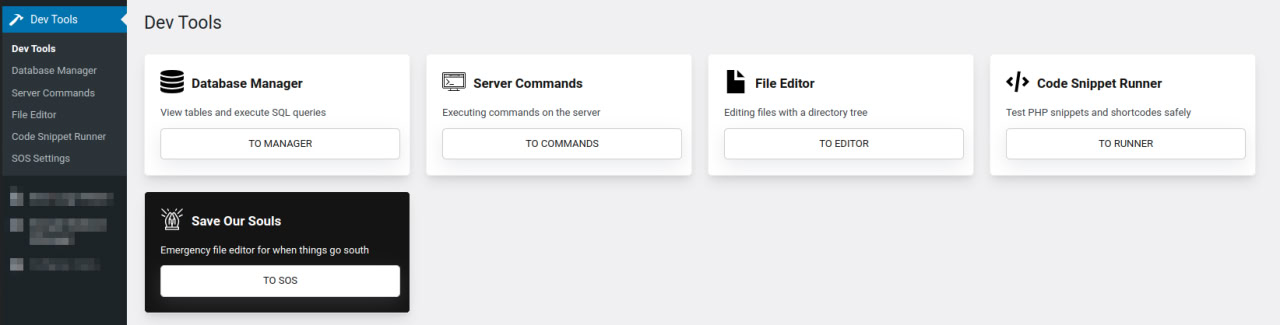
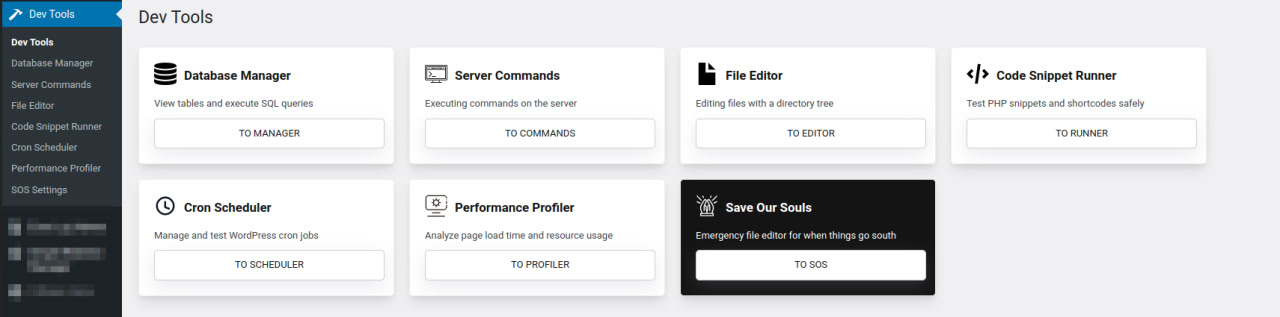
new Cron Scheduler

diff --git a/includes/cron-scheduler/cron-scheduler.php b/includes/cron-scheduler/cron-scheduler.php
@@ -1,0 +1,159 @@
+<?php
+if (!defined('ABSPATH')) {
+    exit;
+}
+
+function dev_tools_cron_page() {
+    if (!current_user_can('manage_options')) {
+        return;
+    }
+
+    $message = '';
+    if ($_SERVER['REQUEST_METHOD'] === 'POST' && isset($_POST['cron_action']) && wp_verify_nonce($_POST['cron_nonce'], 'cron_action')) {
+        $hook = sanitize_text_field($_POST['hook']);
+        if ($_POST['cron_action'] === 'run' && !empty($hook)) {
+            do_action($hook);
+            $message = '<div class="updated"><p>Cron job "' . esc_html($hook) . '" executed successfully!</p></div>';
+        } elseif ($_POST['cron_action'] === 'delete' && !empty($hook)) {
+            $timestamp = (int)$_POST['timestamp'];
+            wp_unschedule_event($timestamp, $hook);
+            $message = '<div class="updated"><p>Cron job "' . esc_html($hook) . '" deleted!</p></div>';
+        } elseif ($_POST['cron_action'] === 'add' && !empty($hook)) {
+            $timestamp = strtotime($_POST['schedule_time']);
+            $recurrence = sanitize_text_field($_POST['recurrence']);
+            if ($timestamp && $recurrence) {
+                wp_schedule_event($timestamp, $recurrence, $hook);
+                $message = '<div class="updated"><p>Cron job "' . esc_html($hook) . '" scheduled!</p></div>';
+            } else {
+                $message = '<div class="error"><p>Invalid time or recurrence!</p></div>';
+            }
+        }
+    }
+
+    $cron_jobs = _get_cron_array();
+    $schedules = wp_get_schedules();
+    ?>
+    <div class="wrap">
+        <h1>Cron Scheduler</h1>
+        <p>View, run, or manage WordPress cron jobs.</p>
+        <?php if ($message) echo $message; ?>
+        <div style="display: flex">
+        <div class="tool-card" style="width: 20%; max-width: 20%">
+            <div class="tool-card-header">
+                <div class="tool-card-ico"></div>
+                <h2>Add New Cron Job</h2>
+            </div>
+            <form method="post" class="cron-form">
+                <?php wp_nonce_field('cron_action', 'cron_nonce'); ?>
+                <input type="hidden" name="cron_action" value="add">
+                <p>
+                    <label>Hook Name:</label><br>
+                    <input type="text" name="hook" required placeholder="my_custom_cron_hook">
+                </p>
+                <p>
+                    <label>Schedule Time:</label><br>
+                    <input type="datetime-local" name="schedule_time" required>
+                </p>
+                <p>
+                    <label>Recurrence:</label><br>
+                    <select name="recurrence" required>
+                        <option value="">Select recurrence</option>
+                        <?php
+                        foreach ($schedules as $key => $schedule) {
+                            echo '<option value="' . esc_attr($key) . '">' . esc_html($schedule['display']) . '</option>';
+                        }
+                        ?>
+                        <option value="none">One-time</option>
+                    </select>
+                </p>
+                <input type="submit" class="tool-card-btn" value="Schedule Job">
+            </form>
+        </div>
+        <div class="tool-card"  style="width: 80%; max-width: 80%;">
+            <div class="tool-card-header">
+                <div class="tool-card-ico"></div>
+                <h2>Scheduled Tasks</h2>
+            </div>
+            <div class="cron-table">
+                <table class="wp-list-table widefat fixed striped">
+                    <thead>
+                        <tr>
+                            <th>Hook</th>
+                            <th>Next Run</th>
+                            <th>Recurrence</th>
+                            <th>Actions</th>
+                        </tr>
+                    </thead>
+                    <tbody>
+                        <?php
+                        if ($cron_jobs) {
+                            foreach ($cron_jobs as $timestamp => $cron) {
+                                foreach ($cron as $hook => $events) {
+                                    foreach ($events as $event) {
+                                        $recurrence = isset($event['schedule']) && isset($schedules[$event['schedule']]) ? $schedules[$event['schedule']]['display'] : 'One-time';
+                                        ?>
+                                        <tr>
+                                            <td><?php echo esc_html($hook); ?></td>
+                                            <td><?php echo date('Y-m-d H:i:s', $timestamp); ?></td>
+                                            <td><?php echo esc_html($recurrence); ?></td>
+                                            <td>
+                                                <form method="post" style="display:inline;">
+                                                    <?php wp_nonce_field('cron_action', 'cron_nonce'); ?>
+                                                    <input type="hidden" name="hook" value="<?php echo esc_attr($hook); ?>">
+                                                    <input type="hidden" name="timestamp" value="<?php echo esc_attr($timestamp); ?>">
+                                                    <input type="hidden" name="cron_action" value="run">
+                                                    <input type="submit" class="tool-card-btn" value="Run Now">
+                                                </form>
+                                                <form method="post" style="display:inline;">
+                                                    <?php wp_nonce_field('cron_action', 'cron_nonce'); ?>
+                                                    <input type="hidden" name="hook" value="<?php echo esc_attr($hook); ?>">
+                                                    <input type="hidden" name="timestamp" value="<?php echo esc_attr($timestamp); ?>">
+                                                    <input type="hidden" name="cron_action" value="delete">
+                                                    <input type="submit" class="tool-card-btn delete-btn" value="Delete" onclick="return confirm('Are you sure?');">
+                                                </form>
+                                            </td>
+                                        </tr>
+                                        <?php
+                                    }
+                                }
+                            }
+                        } else {
+                            echo '<tr><td colspan="4">No scheduled tasks found.</td></tr>';
+                        }
+                        ?>
+                    </tbody>
+                </table>
+            </div>
+        </div>
+        </div>
+    </div>
+    <style>
+    .cron-table { padding: 10px; }
+    .cron-table table { width: 100%; }
+    .cron-table th, .cron-table td { padding: 8px; text-align: left; }
+    .cron-form { padding: 10px; }
+    .cron-form p { margin: 10px 0; }
+    .cron-form label { font-weight: bold; }
+    .cron-form input[type="text"], .cron-form input[type="datetime-local"], .cron-form select { width: 100%; max-width: 300px; padding: 5px; }
+    .tool-card-btn.delete-btn { background: #d63638; border-color: #d63638; }
+    .tool-card-btn.delete-btn:hover { background: #b32d2e; }
+    </style>
+    <?php
+}
+
+function dev_tools_cron_card() {
+    ?>
+    <div class="tool-card">
+        <div class="tool-card-header">
+            <div class="tool-card-ico">
+                <svg xmlns="http://www.w3.org/2000/svg" width="800px" height="800px" viewBox="0 0 24 24" fill="none">
+<path fill-rule="evenodd" clip-rule="evenodd" d="M12 4C7.58172 4 4 7.58172 4 12C4 16.4183 7.58172 20 12 20C16.4183 20 20 16.4183 20 12C20 7.58172 16.4183 4 12 4ZM2 12C2 6.47715 6.47715 2 12 2C17.5228 2 22 6.47715 22 12C22 17.5228 17.5228 22 12 22C6.47715 22 2 17.5228 2 12ZM11.8284 6.75736C12.3807 6.75736 12.8284 7.20507 12.8284 7.75736V12.7245L16.3553 14.0653C16.8716 14.2615 17.131 14.8391 16.9347 15.3553C16.7385 15.8716 16.1609 16.131 15.6447 15.9347L11.4731 14.349C11.085 14.2014 10.8284 13.8294 10.8284 13.4142V7.75736C10.8284 7.20507 11.2761 6.75736 11.8284 6.75736Z" fill="#0F1729"/>
+</svg>
+            </div>
+            <h2>Cron Scheduler</h2>
+        </div>
+        <p>Manage and test WordPress cron jobs</p>
+        <a href="<?php echo admin_url('admin.php?page=dev-tools-cron'); ?>" class="tool-card-btn">to scheduler</a>
+    </div>
+    <?php
+}

diff --git a/includes/performance-profiler/performance-profiler.php b/includes/performance-profiler/performance-profiler.php
@@ -1,0 +1,156 @@
+<?php
+if (!defined('ABSPATH')) {
+    exit;
+}
+
+function dev_tools_performance_page() {
+    if (!current_user_can('manage_options')) {
+        return;
+    }
+
+    global $wpdb;
+
+    if (!defined('SAVEQUERIES') || !SAVEQUERIES) {
+        define('SAVEQUERIES', true);
+    }
+
+    $load_time = timer_stop(0, 3);
+    $query_count = $wpdb->num_queries;
+    $memory_usage = size_format(memory_get_usage());
+    $peak_memory = size_format(memory_get_peak_usage());
+
+    $slow_queries = [];
+    if (!empty($wpdb->queries)) {
+        foreach ($wpdb->queries as $query) {
+            $sql = $query[0];
+            $time = $query[1];
+            $slow_queries[] = [
+                'sql' => $sql,
+                'time' => number_format($time, 4),
+            ];
+        }
+        usort($slow_queries, function($a, $b) {
+            return $b['time'] <=> $a['time'];
+        });
+        $slow_queries = array_slice($slow_queries, 0, 10);
+    }
+
+    ?>
+    <div class="wrap">
+        <h1>Performance Profiler</h1>
+        <p>Analyze performance metrics for the current page.</p>
+
+        <div class="tool-card" style="width: 100%; max-width: 100%;">
+            <div class="tool-card-header">
+                <div class="tool-card-ico"></div>
+                <h2>Performance Metrics</h2>
+            </div>
+            <div class="perf-metrics">
+                <table class="wp-list-table widefat fixed striped">
+                    <tbody>
+                        <tr>
+                            <th>Page Load Time</th>
+                            <td><?php echo esc_html($load_time); ?> seconds</td>
+                        </tr>
+                        <tr>
+                            <th>Database Queries</th>
+                            <td><?php echo esc_html($query_count); ?></td>
+                        </tr>
+                        <tr>
+                            <th>Memory Usage</th>
+                            <td><?php echo esc_html($memory_usage); ?></td>
+                        </tr>
+                        <tr>
+                            <th>Peak Memory Usage</th>
+                            <td><?php echo esc_html($peak_memory); ?></td>
+                        </tr>
+                    </tbody>
+                </table>
+            </div>
+        </div>
+
+        <?php if (!empty($slow_queries)) : ?>
+        <div class="tool-card" style="width: 100%; max-width: 100%;">
+            <div class="tool-card-header">
+                <div class="tool-card-ico"></div>
+                <h2>Top 10 Slowest Queries</h2>
+            </div>
+            <div class="perf-queries">
+                <table class="wp-list-table widefat fixed striped">
+                    <thead>
+                        <tr>
+                            <th>Query</th>
+                            <th>Time (seconds)</th>
+                        </tr>
+                    </thead>
+                    <tbody>
+                        <?php foreach ($slow_queries as $query) : ?>
+                        <tr>
+                            <td><pre><?php echo esc_html($query['sql']); ?></pre></td>
+                            <td><?php echo esc_html($query['time']); ?></td>
+                        </tr>
+                        <?php endforeach; ?>
+                    </tbody>
+                </table>
+            </div>
+        </div>
+        <?php endif; ?>
+
+        <div class="tool-card" style="width: 100%; max-width: 100%;">
+            <div class="tool-card-header">
+                <div class="tool-card-ico"></div>
+                <h2>Profiling Tips</h2>
+            </div>
+            <div class="perf-tips">
+                <p><strong>Note:</strong> For accurate query profiling, ensure <code>define('SAVEQUERIES', true);</code> is set in <code>wp-config.php</code>.</p>
+            </div>
+        </div>
+    </div>
+    <style>
+    .perf-metrics, .perf-queries, .perf-tips { padding: 10px; }
+    .perf-metrics table, .perf-queries table { width: 100%; }
+    .perf-metrics th, .perf-queries th { width: 30%; padding: 8px; text-align: left; }
+    .perf-metrics td, .perf-queries td { padding: 8px; }
+    .perf-queries pre { margin: 0; font-size: 12px; white-space: pre-wrap; word-wrap: break-word; }
+    .perf-tips p { margin: 10px 0; }
+    </style>
+    <?php
+}
+
+add_action('wp_footer', 'dev_tools_profile_footer');
+add_action('admin_footer', 'dev_tools_profile_footer');
+function dev_tools_profile_footer() {
+    if (!current_user_can('manage_options') || !isset($_GET['profile'])) {
+        return;
+    }
+
+    global $wpdb;
+    $load_time = timer_stop(0, 3);
+    $query_count = $wpdb->num_queries;
+    $memory_usage = size_format(memory_get_usage());
+    $peak_memory = size_format(memory_get_peak_usage());
+    ?>
+    <div style="position: fixed; bottom: 0; left: 0; background: #fff; padding: 10px; border: 1px solid #ddd; z-index: 9999;">
+        <strong>Performance:</strong> 
+        Load Time: <?php echo esc_html($load_time); ?>s | 
+        Queries: <?php echo esc_html($query_count); ?> | 
+        Memory: <?php echo esc_html($memory_usage); ?> | 
+        Peak: <?php echo esc_html($peak_memory); ?>
+    </div>
+    <?php
+}
+
+function dev_tools_performance_card() {
+    ?>
+    <div class="tool-card">
+        <div class="tool-card-header">
+            <div class="tool-card-ico">
+                <svg xmlns="http://www.w3.org/2000/svg" width="800px" height="800px" viewBox="0 0 1024 1024" class="icon" version="1.1"><path d="M981.333333 469.333333a21.333333 21.333333 0 0 0-21.333333 21.333334v85.333333a85.333333 85.333333 0 0 1-85.333333 85.333333H149.333333a85.333333 85.333333 0 0 1-85.333333-85.333333V149.333333a85.333333 85.333333 0 0 1 85.333333-85.333333h725.333334a85.333333 85.333333 0 0 1 85.333333 85.333333 21.333333 21.333333 0 0 0 42.666667 0 128 128 0 0 0-128-128H149.333333a128 128 0 0 0-128 128v426.666667a128 128 0 0 0 128 128h725.333334a128 128 0 0 0 128-128v-85.333333a21.333333 21.333333 0 0 0-21.333334-21.333334z" fill="#231815"/><path d="M981.333333 298.666667a21.333333 21.333333 0 0 0-21.333333 21.333333v85.333333a21.333333 21.333333 0 0 0 42.666667 0v-85.333333a21.333333 21.333333 0 0 0-21.333334-21.333333zM966.186667 219.52a21.333333 21.333333 0 0 0 0 30.293333 21.333333 21.333333 0 0 0 30.293333 0l2.56-3.413333a11.946667 11.946667 0 0 0 1.92-3.626667 13.226667 13.226667 0 0 0 1.706667-3.84 26.88 26.88 0 0 0 0-4.266666 21.333333 21.333333 0 0 0-36.48-15.146667zM896 960H128a21.333333 21.333333 0 0 0 0 42.666667h768a21.333333 21.333333 0 0 0 0-42.666667zM682.666667 853.333333a21.333333 21.333333 0 0 0 0-42.666666H341.333333a21.333333 21.333333 0 0 0 0 42.666666zM704 384a21.333333 21.333333 0 0 0 0-42.666667h-44.373333a149.333333 149.333333 0 0 0-28.16-67.84l31.36-31.36a21.333333 21.333333 0 1 0-30.08-30.08l-31.573334 31.146667A149.333333 149.333333 0 0 0 533.333333 215.04V170.666667a21.333333 21.333333 0 0 0-42.666666 0v44.373333a149.333333 149.333333 0 0 0-67.84 28.16l-31.573334-31.36a21.333333 21.333333 0 0 0-30.08 30.08l31.36 31.36A149.333333 149.333333 0 0 0 364.373333 341.333333H320a21.333333 21.333333 0 0 0 0 42.666667h44.373333a149.333333 149.333333 0 0 0 28.16 67.84l-31.36 31.36a21.333333 21.333333 0 1 0 30.08 30.08l31.36-31.36A149.333333 149.333333 0 0 0 490.666667 510.293333V554.666667a21.333333 21.333333 0 0 0 42.666666 0v-44.373334a149.333333 149.333333 0 0 0 67.84-28.16l31.36 31.36a21.333333 21.333333 0 0 0 30.08-30.08l-31.146666-31.573333A149.333333 149.333333 0 0 0 659.626667 384z m-192 85.333333a106.666667 106.666667 0 1 1 106.666667-106.666666 106.666667 106.666667 0 0 1-106.666667 106.666666z" fill="#231815"/></svg>
+            </div>
+            <h2>Performance Profiler</h2>
+        </div>
+        <p>Analyze page load time and resource usage</p>
+        <a href="<?php echo admin_url('admin.php?page=dev-tools-performance'); ?>" class="tool-card-btn">to profiler</a>
+    </div>
+    <?php
+}

diff --git a/dev-tools.php b/dev-tools.php
@@ -2,7 +2,7 @@
 /*
 Plugin Name: Dev Tools
 Description: Developer toolkit
-Version: 1.0
+Version: 1.5
 Author: V.Krykun
 */
 
@@ -10,6 +10,8 @@ define('DEV_TOOLS_DB_MANAGER', true);
 define('DEV_TOOLS_SERVER_COMMANDS', true);
 define('DEV_TOOLS_FILE_EDITOR', true);
 define('DEV_TOOLS_SNIPPET_RUNNER', true);
+define('DEV_TOOLS_CRON_SCHEDULER', true);
+define('DEV_TOOLS_PERFORMANCE_PROFILER', true);
 
 $sos_enabled = get_option('dev_tools_sos_enabled', false);
 
@@ -24,6 +26,12 @@ if (DEV_TOOLS_FILE_EDITOR) {
 }
 if (DEV_TOOLS_SNIPPET_RUNNER) {
     require_once plugin_dir_path(__FILE__) . 'includes/code-snippet/code-snippet.php';
+}
+if (DEV_TOOLS_CRON_SCHEDULER) {
+    require_once plugin_dir_path(__FILE__) . 'includes/cron-scheduler/cron-scheduler.php';
+}
+if (DEV_TOOLS_PERFORMANCE_PROFILER) {
+    require_once plugin_dir_path(__FILE__) . 'includes/performance-profiler/performance-profiler.php';
 }
 if ($sos_enabled) {
     require_once plugin_dir_path(__FILE__) . 'includes/save-our-soul/save-our-soul.php';
@@ -83,7 +91,29 @@ function dev_tools_menu() {
             'dev_tools_snippet_page'
         );
     }
-
+    
+    if (DEV_TOOLS_CRON_SCHEDULER) {
+        add_submenu_page(
+            'dev-tools',
+            'Cron Scheduler',
+            'Cron Scheduler',
+            'manage_options',
+            'dev-tools-cron',
+            'dev_tools_cron_page'
+        );
+    }
+    
+    if (DEV_TOOLS_PERFORMANCE_PROFILER) {
+        add_submenu_page(
+            'dev-tools',
+            'Performance Profiler',
+            'Performance Profiler',
+            'manage_options',
+            'dev-tools-performance',
+            'dev_tools_performance_page'
+        );
+    }
+    
     add_submenu_page(
         'dev-tools',
         'SOS Settings',
@@ -115,6 +145,12 @@ function dev_tools_main_page() {
             }
             if (DEV_TOOLS_SNIPPET_RUNNER) {
                 dev_tools_snippet_card();
+            }
+            if (DEV_TOOLS_CRON_SCHEDULER) {
+                dev_tools_cron_card();
+            }
+            if (DEV_TOOLS_PERFORMANCE_PROFILER) {
+                dev_tools_performance_card();
             }
             if (get_option('dev_tools_sos_enabled', false)) {
                 dev_tools_sos_card();
